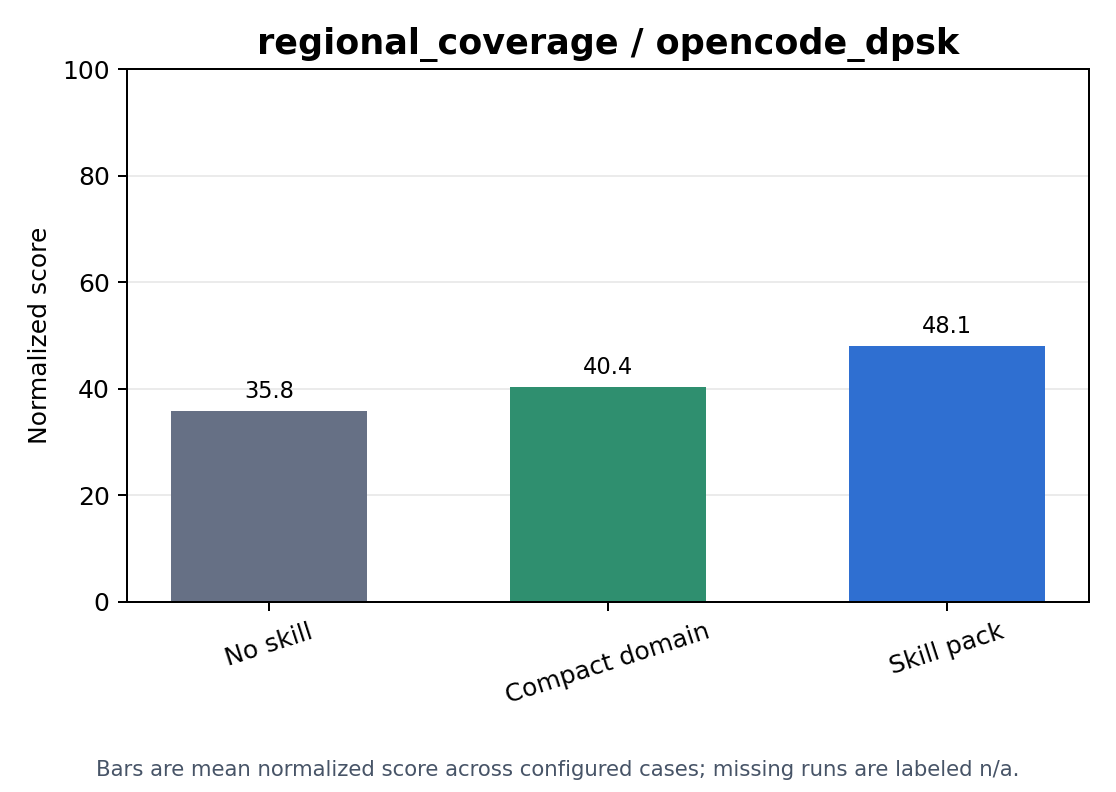
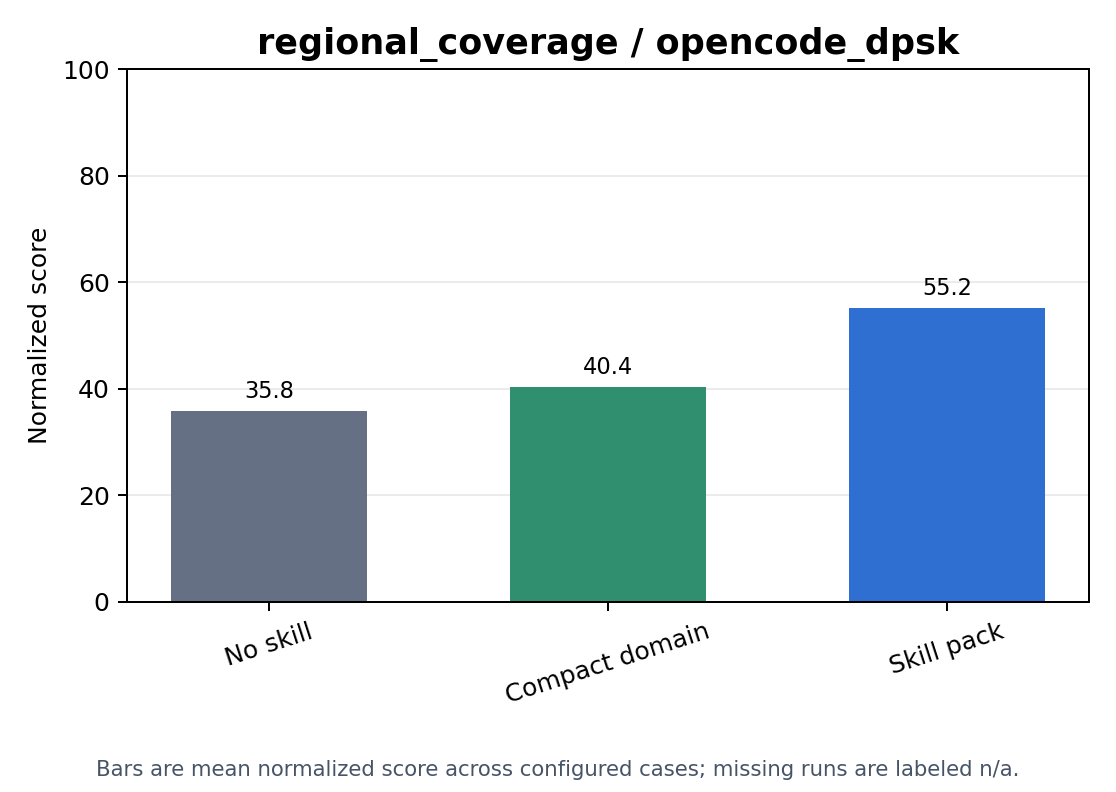
Finalize skill_injection experiment runs

Changed region(s): [[0.7616, 0.3333, 0.9444, 0.4545]]

diff --git a/experiments/skill_injection/reports/relay_constellation.md b/experiments/skill_injection/reports/relay_constellation.md
@@ -14,19 +14,19 @@ Generated from the current `skill_injection` aggregate artifacts.
 
 | Condition | Runs | Present | Valid | Valid Rate | Mean Service | Mean Worst Demand | Mean Added Satellites | Mean Latency | Mean P95 Latency | Mean Score | Overall Statuses |
 | --- | ---: | ---: | ---: | ---: | ---: | ---: | ---: | ---: | ---: | ---: | ---: |
-| compact_domain | 10 | 9 | 9 | 0.9000 | 0.3545 | 0.1328 | 2.5000 | 133.5 | 166.3 | 20.94 | missing_artifact: 1, success: 9 |
+| compact_domain | 10 | 10 | 10 | 1.0000 | 0.3910 | 0.1328 | 1.7000 | 126.2 | 156.1 | 22.85 | success: 10 |
 | no_skill | 10 | 10 | 9 | 0.9000 | 0.2797 | 0.1800 | 6.9000 | 143.7 | 269.8 | 17.83 | success: 9, verifier_invalid: 1 |
-| skill_pack | 10 | 10 | 8 | 0.8000 | 0.2529 | 0.0981 | 5.2000 | 132.2 | 202.4 | 14.99 | agent_failed: 2, success: 8 |
+| skill_pack | 10 | 10 | 10 | 1.0000 | 0.3874 | 0.1347 | 3.4000 | 128.8 | 191.3 | 22.70 | success: 10 |
 
 ## Condition And Harness Summary
 
 | Condition | Harness | Runs | Present | Valid | Valid Rate | Mean Service | Mean Worst Demand | Mean Added Satellites | Mean Latency | Mean P95 Latency | Mean Score | Overall Statuses |
 | --- | --- | ---: | ---: | ---: | ---: | ---: | ---: | ---: | ---: | ---: | ---: | ---: |
-| compact_domain | opencode_dpsk | 5 | 4 | 4 | 0.8000 | 0.5846 | 0.2656 | 3.8000 | 116.2 | 173.1 | 35.34 | missing_artifact: 1, success: 4 |
+| compact_domain | opencode_dpsk | 5 | 5 | 5 | 1.0000 | 0.6576 | 0.2656 | 2.2000 | 110.4 | 152.8 | 39.17 | success: 5 |
 | compact_domain | opencode_minimax | 5 | 5 | 5 | 1.0000 | 0.1244 | 0.0000 | 1.2000 | 142.0 | 153.9 | 6.5313 | success: 5 |
 | no_skill | opencode_dpsk | 5 | 5 | 5 | 1.0000 | 0.5594 | 0.3600 | 8.4000 | 134.5 | 251.1 | 35.67 | success: 5 |
 | no_skill | opencode_minimax | 5 | 5 | 4 | 0.8000 | 0.0000 | 0.0000 | 5.0000 | - | - | 0.0000 | success: 4, verifier_invalid: 1 |
-| skill_pack | opencode_dpsk | 5 | 5 | 3 | 0.6000 | 0.3316 | 0.1850 | 7.6000 | 135.3 | 208.9 | 20.65 | agent_failed: 2, success: 3 |
+| skill_pack | opencode_dpsk | 5 | 5 | 5 | 1.0000 | 0.6006 | 0.2583 | 4.0000 | 128.4 | 186.7 | 36.05 | success: 5 |
 | skill_pack | opencode_minimax | 5 | 5 | 5 | 1.0000 | 0.1743 | 0.0111 | 2.8000 | 119.3 | 158.5 | 9.3431 | success: 5 |
 
 ## Cases
@@ -37,7 +37,7 @@ Generated from the current `skill_injection` aggregate artifacts.
 | compact_domain | opencode_dpsk | test | case_0002 | present | success | valid | true | 6368.3 | 1 | 0.8365 | 0.5556 | 3 | 122.0 | 213.5 | 53.64 |
 | compact_domain | opencode_dpsk | test | case_0003 | present | success | valid | true | 7161.2 | 1 | 0.5189 | 0.1500 | 0 | 101.3 | 138.7 | 29.87 |
 | compact_domain | opencode_dpsk | test | case_0004 | present | success | valid | true | 5063.4 | 1 | 0.8408 | 0.5333 | 8 | 91.79 | 122.7 | 53.48 |
-| compact_domain | opencode_dpsk | test | case_0005 | missing_artifact | missing_artifact | missing_artifact | - | - | 1 | - | - | - | - | - | 0 |
+| compact_domain | opencode_dpsk | test | case_0005 | present | success | valid | true | 9822.5 | 1 | 0.3647 | 0 | 0 | 104.0 | 112.2 | 19.15 |
 | compact_domain | opencode_minimax | test | case_0001 | present | success | valid | true | 3969.3 | 1 | 0.1111 | 0 | 0 | 171.0 | 177.5 | 5.8333 |
 | compact_domain | opencode_minimax | test | case_0002 | present | success | valid | true | 3163.1 | 1 | 0 | 0 | 4 | - | - | 0 |
 | compact_domain | opencode_minimax | test | case_0003 | present | success | valid | true | 2548.0 | 1 | 0.2000 | 0 | 0 | 78.15 | 80.91 | 10.50 |
@@ -53,8 +53,8 @@ Generated from the current `skill_injection` aggregate artifacts.
 | no_skill | opencode_minimax | test | case_0003 | present | success | valid | true | 3290.8 | 0 | 0 | 0 | 8 | - | - | 0 |
 | no_skill | opencode_minimax | test | case_0004 | present | verifier_invalid | invalid | false | 3532.6 | 0 | 0 | 0 | 8 | - | - | 0 |
 | no_skill | opencode_minimax | test | case_0005 | present | success | valid | true | 2330.2 | 0 | 0 | 0 | 1 | - | - | 0 |
-| skill_pack | opencode_dpsk | test | case_0001 | present | agent_failed | no_solution | false | 0.2540 | 3 | - | - | - | - | - | 0 |
-| skill_pack | opencode_dpsk | test | case_0002 | present | agent_failed | no_solution | false | 0.2510 | 3 | - | - | - | - | - | 0 |
+| skill_pack | opencode_dpsk | test | case_0001 | present | success | valid | true | 10506.1 | 3 | 0.7787 | 0.1667 | 2 | 144.7 | 215.3 | 43.80 |
+| skill_pack | opencode_dpsk | test | case_0002 | present | success | valid | true | 10156.2 | 3 | 0.5663 | 0.2000 | 0 | 112.2 | 150.7 | 33.23 |
 | skill_pack | opencode_dpsk | test | case_0003 | present | success | valid | true | 7110.4 | 3 | 0.5556 | 0.2500 | 0 | 122.1 | 164.0 | 33.54 |
 | skill_pack | opencode_dpsk | test | case_0004 | present | success | valid | true | 8750.2 | 3 | 0.3111 | 0 | 8 | 116.9 | 165.3 | 16.33 |
 | skill_pack | opencode_dpsk | test | case_0005 | present | success | valid | true | 7356.8 | 3 | 0.7913 | 0.6750 | 10 | 145.8 | 238.4 | 53.35 |

diff --git a/experiments/memory_accumulation/reports/regional_coverage.md b/experiments/memory_accumulation/reports/regional_coverage.md
@@ -15,8 +15,8 @@ Generated from the current `memory_accumulation` aggregate artifacts.
 | none | opencode_dpsk | 5 | 5 | 0 | 5 | 35.79 | success: 5 |
 | none | opencode_minimax | 5 | 5 | 0 | 5 | 17.73 | success: 5 |
 | opencode_dpsk | codex | 5 | 0 | 5 | 0 | 0.0000 | missing_artifact: 5 |
-| opencode_dpsk | opencode_dpsk | 5 | 3 | 2 | 0 | 0.0000 | agent_failed: 3, missing_artifact: 2 |
-| opencode_dpsk | opencode_minimax | 5 | 1 | 4 | 0 | 0.0000 | agent_failed: 1, missing_artifact: 4 |
+| opencode_dpsk | opencode_dpsk | 5 | 2 | 3 | 2 | 24.63 | missing_artifact: 3, success: 2 |
+| opencode_dpsk | opencode_minimax | 5 | 0 | 5 | 0 | 0.0000 | missing_artifact: 5 |
 | opencode_minimax | codex | 5 | 0 | 5 | 0 | 0.0000 | missing_artifact: 5 |
 | opencode_minimax | opencode_dpsk | 5 | 0 | 5 | 0 | 0.0000 | missing_artifact: 5 |
 | opencode_minimax | opencode_minimax | 5 | 0 | 5 | 0 | 0.0000 | missing_artifact: 5 |
@@ -61,11 +61,11 @@ Generated from the current `memory_accumulation` aggregate artifacts.
 | opencode_dpsk | codex | test | case_0004 | missing_artifact | missing_artifact | missing_artifact | - | - | 0 | - | - | - | - |
 | opencode_dpsk | codex | test | case_0005 | missing_artifact | missing_artifact | missing_artifact | - | - | 0 | - | - | - | - |
 | opencode_dpsk | opencode_dpsk | test | case_0001 | missing_artifact | missing_artifact | missing_artifact | - | - | 0 | - | - | - | - |
-| opencode_dpsk | opencode_dpsk | test | case_0002 | missing_artifact | missing_artifact | missing_artifact | - | - | 0 | - | - | - | - |
-| opencode_dpsk | opencode_dpsk | test | case_0003 | present | agent_failed | no_solution | false | 0.2910 | 0 | - | - | - | - |
-| opencode_dpsk | opencode_dpsk | test | case_0004 | present | agent_failed | no_solution | false | 0.2780 | 0 | - | - | - | - |
-| opencode_dpsk | opencode_dpsk | test | case_0005 | present | agent_failed | no_solution | false | 0.0940 | 0 | - | - | - | - |
-| opencode_dpsk | opencode_minimax | test | case_0001 | present | agent_failed | no_solution | false | 0.0930 | 0 | - | - | - | - |
+| opencode_dpsk | opencode_dpsk | test | case_0002 | present | success | valid | true | 2619.1 | 59.86 | 0.7722 | 0.7738 | 64 | 496.7 |
+| opencode_dpsk | opencode_dpsk | test | case_0003 | present | success | valid | true | 7200.7 | 63.28 | 0.8058 | 0.8060 | 59 | 493.1 |
+| opencode_dpsk | opencode_dpsk | test | case_0004 | missing_artifact | missing_artifact | missing_artifact | - | - | 0 | - | - | - | - |
+| opencode_dpsk | opencode_dpsk | test | case_0005 | missing_artifact | missing_artifact | missing_artifact | - | - | 0 | - | - | - | - |
+| opencode_dpsk | opencode_minimax | test | case_0001 | missing_artifact | missing_artifact | missing_artifact | - | - | 0 | - | - | - | - |
 | opencode_dpsk | opencode_minimax | test | case_0002 | missing_artifact | missing_artifact | missing_artifact | - | - | 0 | - | - | - | - |
 | opencode_dpsk | opencode_minimax | test | case_0003 | missing_artifact | missing_artifact | missing_artifact | - | - | 0 | - | - | - | - |
 | opencode_dpsk | opencode_minimax | test | case_0004 | missing_artifact | missing_artifact | missing_artifact | - | - | 0 | - | - | - | - |

diff --git a/experiments/memory_accumulation/reports/satnet.md b/experiments/memory_accumulation/reports/satnet.md
@@ -16,7 +16,7 @@ Generated from the current `memory_accumulation` aggregate artifacts.
 | none | opencode_minimax | 5 | 5 | 0 | 4 | 37.54 | success: 4, verifier_invalid: 1 |
 | opencode_dpsk | codex | 5 | 0 | 5 | 0 | 0.0000 | missing_artifact: 5 |
 | opencode_dpsk | opencode_dpsk | 5 | 5 | 0 | 5 | 65.97 | success: 5 |
-| opencode_dpsk | opencode_minimax | 5 | 5 | 0 | 0 | 0.0000 | no_solution: 4, verifier_invalid: 1 |
+| opencode_dpsk | opencode_minimax | 5 | 5 | 0 | 4 | 36.03 | success: 4, verifier_invalid: 1 |
 | opencode_minimax | codex | 5 | 0 | 5 | 0 | 0.0000 | missing_artifact: 5 |
 | opencode_minimax | opencode_dpsk | 5 | 0 | 5 | 0 | 0.0000 | missing_artifact: 5 |
 | opencode_minimax | opencode_minimax | 5 | 0 | 5 | 0 | 0.0000 | missing_artifact: 5 |
@@ -66,10 +66,10 @@ Generated from the current `memory_accumulation` aggregate artifacts.
 | opencode_dpsk | opencode_dpsk | test | W40_2018 | present | success | valid | true | 3796.7 | 62.02 | 1094.6 | 186 | 0.3384 | 0.5038 | 241 |
 | opencode_dpsk | opencode_dpsk | test | W50_2018 | present | success | valid | true | 2229.7 | 60.23 | 892.8 | 186 | 0.2922 | 0.7143 | 202 |
 | opencode_dpsk | opencode_minimax | test | W10_2018 | present | verifier_invalid | invalid | false | 1257.5 | 0 | 662.9 | 177 | 0.3990 | 1 | 177 |
-| opencode_dpsk | opencode_minimax | test | W20_2018 | present | no_solution | no_solution | false | 515.8 | 0 | - | - | - | - | - |
-| opencode_dpsk | opencode_minimax | test | W30_2018 | present | no_solution | no_solution | false | 746.8 | 0 | - | - | - | - | - |
-| opencode_dpsk | opencode_minimax | test | W40_2018 | present | no_solution | no_solution | false | 503.9 | 0 | - | - | - | - | - |
-| opencode_dpsk | opencode_minimax | test | W50_2018 | present | no_solution | no_solution | false | 604.9 | 0 | - | - | - | - | - |
+| opencode_dpsk | opencode_minimax | test | W20_2018 | present | success | valid | true | 4805.6 | 52.37 | 875.2 | 222 | 0.3732 | 0.7857 | 222 |
+| opencode_dpsk | opencode_minimax | test | W30_2018 | present | success | valid | true | 1442.6 | 30.99 | 1024.9 | 111 | 0.5869 | 1 | 122 |
+| opencode_dpsk | opencode_minimax | test | W40_2018 | present | success | valid | true | 4488.7 | 40.49 | 1116.1 | 176 | 0.4602 | 1 | 228 |
+| opencode_dpsk | opencode_minimax | test | W50_2018 | present | success | valid | true | 1002.8 | 56.32 | 793.2 | 175 | 0.3824 | 0.6000 | 186 |
 | opencode_minimax | codex | test | W10_2018 | missing_artifact | missing_artifact | missing_artifact | - | - | 0 | - | - | - | - | - |
 | opencode_minimax | codex | test | W20_2018 | missing_artifact | missing_artifact | missing_artifact | - | - | 0 | - | - | - | - | - |
 | opencode_minimax | codex | test | W30_2018 | missing_artifact | missing_artifact | missing_artifact | - | - | 0 | - | - | - | - | - |

diff --git a/experiments/skill_injection/reports/regional_coverage.md b/experiments/skill_injection/reports/regional_coverage.md
@@ -16,7 +16,7 @@ Generated from the current `skill_injection` aggregate artifacts.
 | --- | ---: | ---: | ---: | ---: | ---: | ---: | ---: | ---: | ---: | ---: |
 | compact_domain | 10 | 10 | 10 | 1.0000 | 0.2711 | 0.2753 | 40.90 | 493.0 | 30.67 | success: 10 |
 | no_skill | 10 | 10 | 10 | 1.0000 | 0.2203 | 0.2066 | 40.90 | 493.7 | 26.76 | success: 10 |
-| skill_pack | 10 | 9 | 9 | 0.9000 | 0.4080 | 0.4111 | 54.60 | 436.1 | 36.36 | missing_artifact: 1, success: 9 |
+| skill_pack | 10 | 10 | 10 | 1.0000 | 0.4344 | 0.4377 | 49.70 | 485.4 | 39.93 | success: 10 |
 
 ## Condition And Harness Summary
 
@@ -26,7 +26,7 @@ Generated from the current `skill_injection` aggregate artifacts.
 | compact_domain | opencode_minimax | 5 | 5 | 5 | 1.0000 | 0.1273 | 0.1317 | 39.40 | 492.7 | 20.96 | success: 5 |
 | no_skill | opencode_dpsk | 5 | 5 | 5 | 1.0000 | 0.3965 | 0.3744 | 54.20 | 492.1 | 35.79 | success: 5 |
 | no_skill | opencode_minimax | 5 | 5 | 5 | 1.0000 | 0.0440 | 0.0388 | 27.60 | 495.3 | 17.73 | success: 5 |
-| skill_pack | opencode_dpsk | 5 | 4 | 4 | 0.8000 | 0.5909 | 0.5965 | 57.40 | 396.7 | 48.11 | missing_artifact: 1, success: 4 |
+| skill_pack | opencode_dpsk | 5 | 5 | 5 | 1.0000 | 0.6438 | 0.6497 | 47.60 | 495.3 | 55.25 | success: 5 |
 | skill_pack | opencode_minimax | 5 | 5 | 5 | 1.0000 | 0.2250 | 0.2258 | 51.80 | 475.5 | 24.62 | success: 5 |
 
 ## Cases
@@ -55,7 +55,7 @@ Generated from the current `skill_injection` aggregate artifacts.
 | no_skill | opencode_minimax | test | case_0005 | present | success | valid | true | 2941.0 | 0 | 0 | 0 | 49 | 497.3 | 9.2533 |
 | skill_pack | opencode_dpsk | test | case_0001 | present | success | valid | true | 9772.7 | 4 | 0.6773 | 0.6892 | 64 | 492.9 | 55.87 |
 | skill_pack | opencode_dpsk | test | case_0002 | present | success | valid | true | 7745.3 | 4 | 0.6321 | 0.6389 | 58 | 496.7 | 51.52 |
-| skill_pack | opencode_dpsk | test | case_0003 | missing_artifact | missing_artifact | missing_artifact | - | - | 4 | - | - | - | - | 0 |
+| skill_pack | opencode_dpsk | test | case_0003 | present | success | valid | true | 8152.9 | 4 | 0.2643 | 0.2660 | 15 | 493.1 | 35.71 |
 | skill_pack | opencode_dpsk | test | case_0004 | present | success | valid | true | 8916.5 | 4 | 0.8591 | 0.8646 | 64 | 496.6 | 65.98 |
 | skill_pack | opencode_dpsk | test | case_0005 | present | success | valid | true | 7222.8 | 4 | 0.7861 | 0.7897 | 37 | 497.3 | 67.17 |
 | skill_pack | opencode_minimax | test | case_0001 | present | success | valid | true | 5244.8 | 4 | 0 | 0 | 64 | 492.9 | 8.2149 |

diff --git a/experiments/memory_accumulation/reports/overview.md b/experiments/memory_accumulation/reports/overview.md
@@ -23,8 +23,8 @@ Generated from the current `memory_accumulation` aggregate artifacts.
 | none | opencode_dpsk | 15 | 15 | 0 | 15 | 43.90 | success: 15 |
 | none | opencode_minimax | 15 | 15 | 0 | 13 | 18.42 | success: 13, verifier_invalid: 2 |
 | opencode_dpsk | codex | 15 | 0 | 15 | 0 | 0.0000 | missing_artifact: 15 |
-| opencode_dpsk | opencode_dpsk | 15 | 8 | 7 | 5 | 21.99 | agent_failed: 3, missing_artifact: 7, success: 5 |
-| opencode_dpsk | opencode_minimax | 15 | 6 | 9 | 0 | 0.0000 | agent_failed: 1, missing_artifact: 9, no_solution: 4, verifier_invalid: 1 |
+| opencode_dpsk | opencode_dpsk | 15 | 7 | 8 | 7 | 30.20 | missing_artifact: 8, success: 7 |
+| opencode_dpsk | opencode_minimax | 15 | 5 | 10 | 4 | 12.01 | missing_artifact: 10, success: 4, verifier_invalid: 1 |
 | opencode_minimax | codex | 15 | 0 | 15 | 0 | 0.0000 | missing_artifact: 15 |
 | opencode_minimax | opencode_dpsk | 15 | 0 | 15 | 0 | 0.0000 | missing_artifact: 15 |
 | opencode_minimax | opencode_minimax | 15 | 0 | 15 | 0 | 0.0000 | missing_artifact: 15 |
@@ -34,6 +34,7 @@ Generated from the current `memory_accumulation` aggregate artifacts.
 | Benchmark | Memory Source | Harness | Pairs | No-Memory Mean | Memory Mean | Delta | Improved | Regressed |
 | --- | --- | --- | ---: | ---: | ---: | ---: | ---: | ---: |
 | regional_coverage | codex | opencode_dpsk | 5 | 35.79 | 60.08 | 24.28 | 4 | 1 |
+| regional_coverage | opencode_dpsk | opencode_dpsk | 2 | 37.92 | 61.57 | 23.66 | 2 | 0 |
 | relay_constellation | codex | opencode_dpsk | 5 | 35.67 | 45.09 | 9.4184 | 2 | 3 |
 | satnet | opencode_dpsk | opencode_dpsk | 5 | 60.23 | 65.97 | 5.7422 | 3 | 2 |
 | regional_coverage | codex | opencode_minimax | 5 | 17.73 | 20.94 | 3.2117 | 4 | 1 |
@@ -43,10 +44,8 @@ Generated from the current `memory_accumulation` aggregate artifacts.
 
 | Benchmark | Memory Source | Harness | Pairs | No-Memory Mean | Memory Mean | Delta | Improved | Regressed |
 | --- | --- | --- | ---: | ---: | ---: | ---: | ---: | ---: |
-| satnet | opencode_dpsk | opencode_minimax | 5 | 37.54 | 0.0000 | -37.54 | 0 | 4 |
-| regional_coverage | opencode_dpsk | opencode_dpsk | 3 | 31.08 | 0.0000 | -31.08 | 0 | 3 |
-| regional_coverage | opencode_dpsk | opencode_minimax | 1 | 23.21 | 0.0000 | -23.21 | 0 | 1 |
 | satnet | codex | opencode_minimax | 5 | 37.54 | 32.46 | -5.0753 | 1 | 4 |
+| satnet | opencode_dpsk | opencode_minimax | 5 | 37.54 | 36.03 | -1.5082 | 2 | 3 |
 | satnet | codex | opencode_dpsk | 3 | 65.32 | 64.58 | -0.7386 | 1 | 2 |
 
 ## Aggregate Metadata
